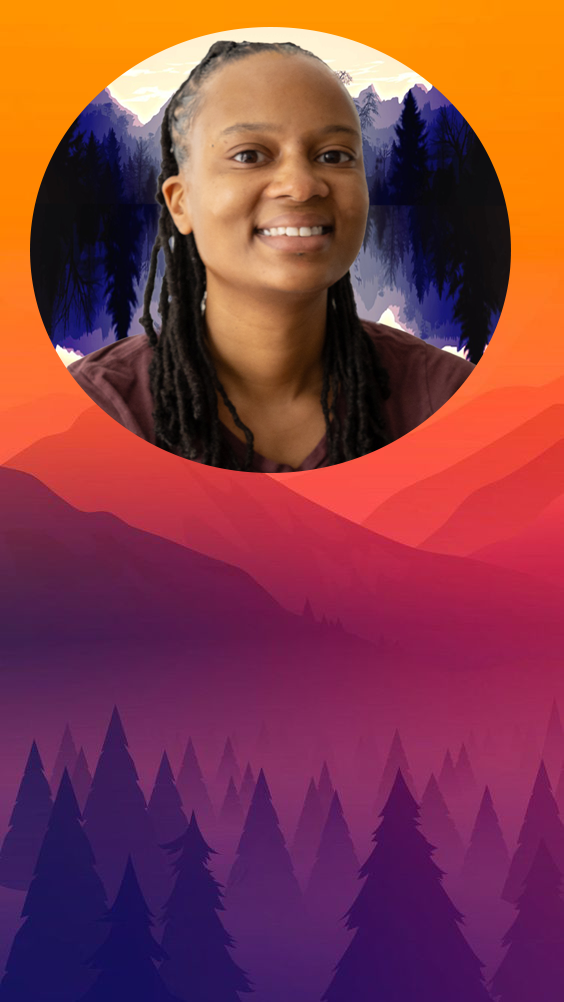
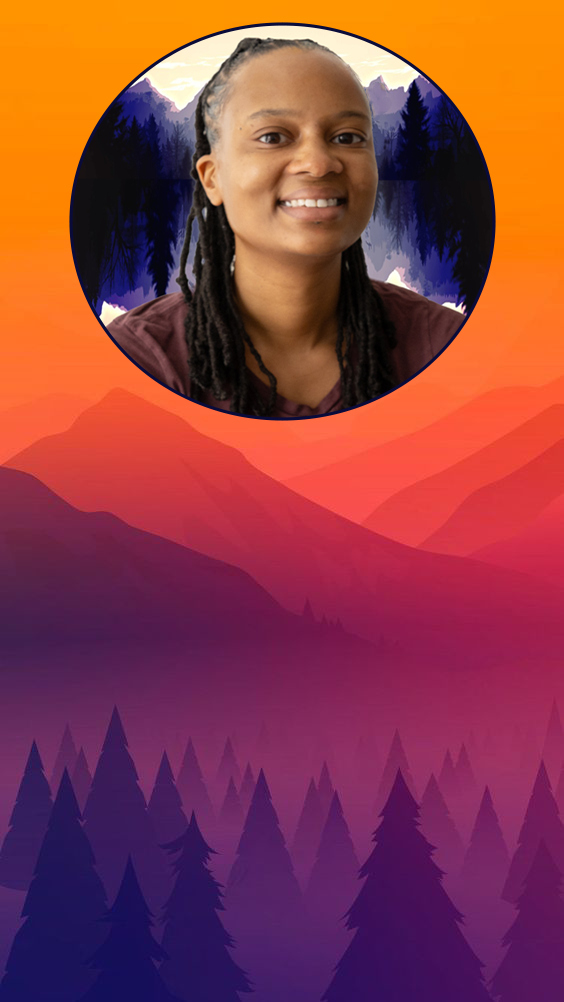
edited hero pics

Changed region(s): [[0.0301, 0.0, 0.9043, 0.495]]

diff --git a/src/components/hero/Hero.jsx b/src/components/hero/Hero.jsx
@@ -1,6 +1,6 @@
 import React, { useState } from "react";
 import Modal from "react-modal";
-import mainImg from "../../assets/img/hero/hero-main-img2.png";
+import mainImg from "../../assets/img/hero/portfolio-main-img.png";
 import heroImgMobile from "../../assets/img/hero/hero-img-mobile.png";
 import cancelImg from "../../assets/img/cancel.svg";
 import Index from "../../components/about/index";
